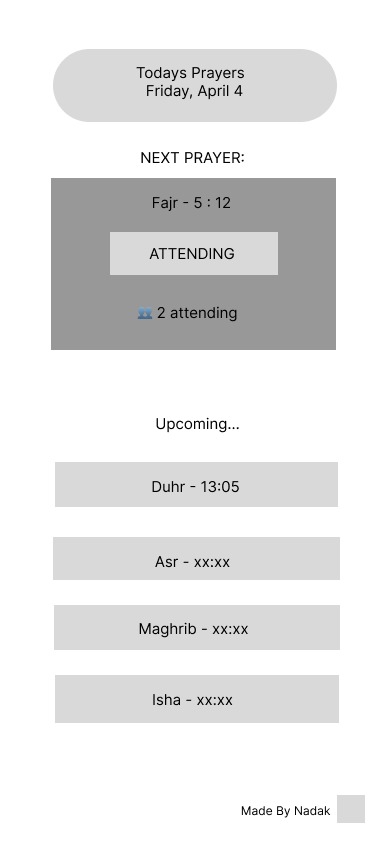
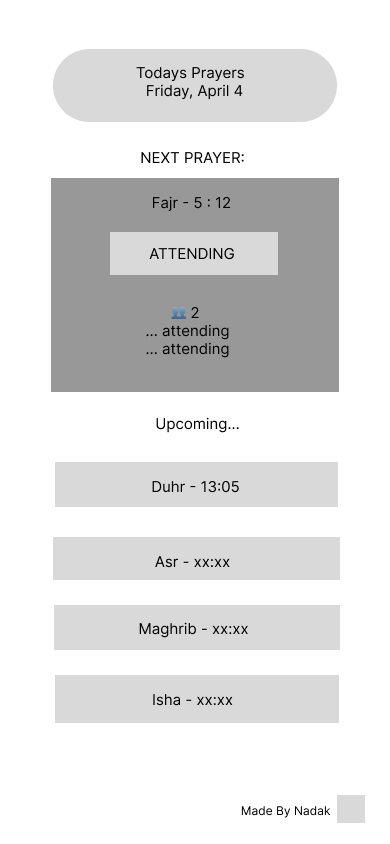
5.4

Changed region(s): [[0.1231, 0.2156, 0.8923, 0.4621]]

diff --git a/PROJECT_BRIEF.md b/PROJECT_BRIEF.md
@@ -67,12 +67,16 @@ Output: Feedback list, bug list
 ### Phase 6 — Ship & Polish `Day 10–14`
 Output: Portfolio-ready project
 
+
+
+
 ## 5. Scope — what is and isn't being built
 
 **Building:**
 - Display today's 5 prayer times (via Aladhan API)
-- "Attending" button per prayer
-- Live attendee count per latest upcoming
+- The upcoming prayer highlighted and at the top.
+- "Attending" button and Live attendee COUNT on the upcoming prayer, 
+- Below with names displayed in order 
 - Auto display new latest upcoming prayer after each prayer passes
 
 **NOT building (MVP):**
